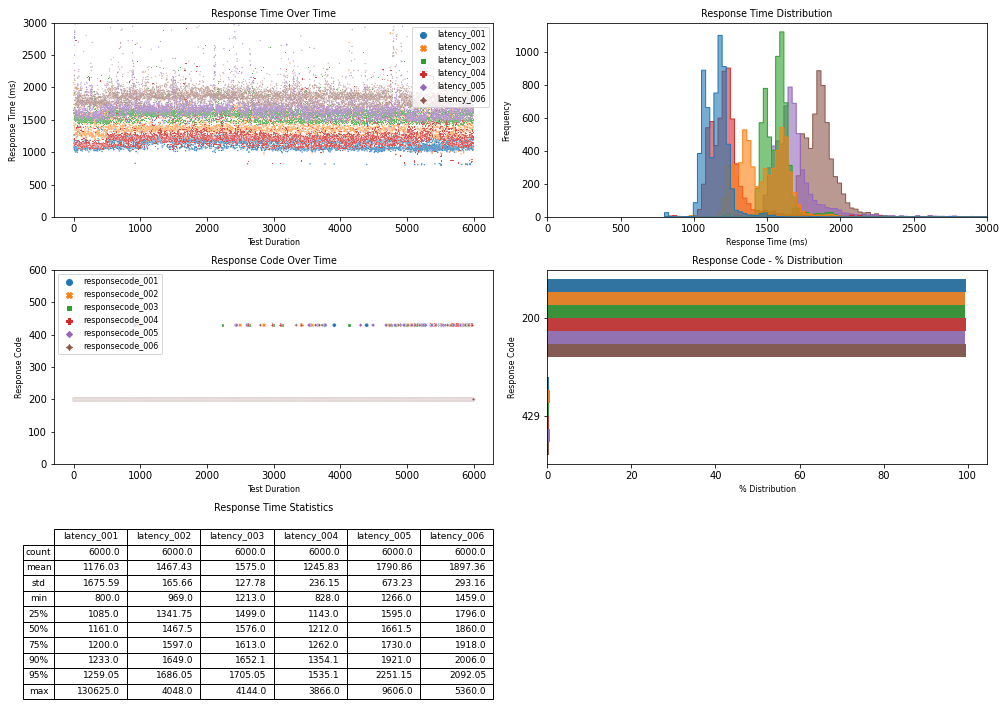
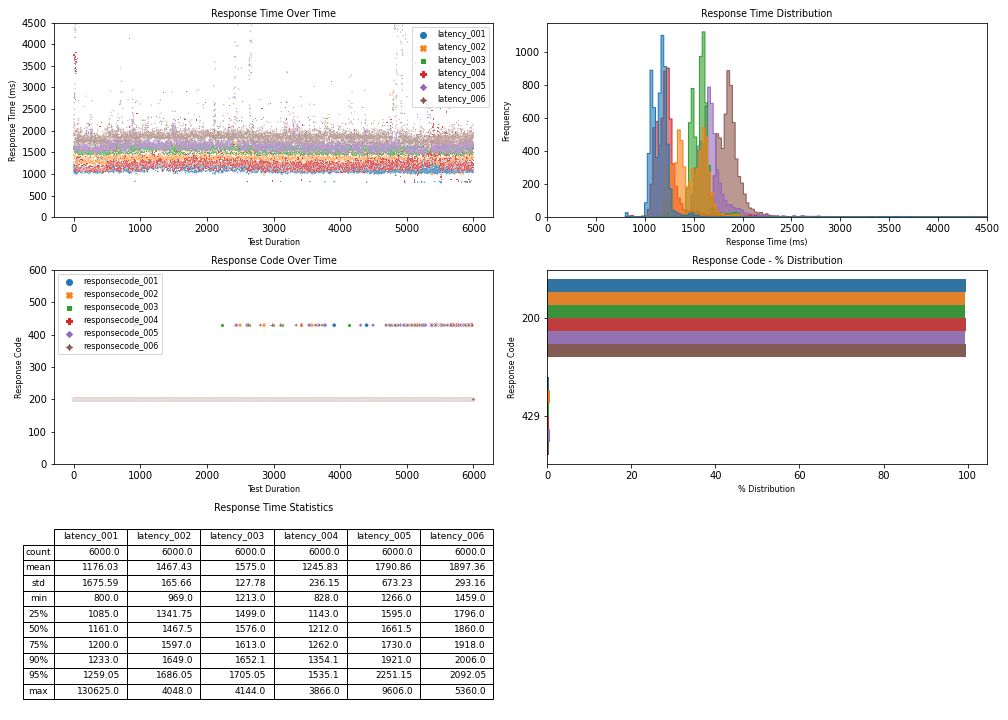
script update

diff --git a/neocortix_jmeter_multi_graphs.py b/neocortix_jmeter_multi_graphs.py
@@ -77,7 +77,7 @@ def generate_graphs():
         #generate scatterplot for elapsed time
         hist_df = df.filter(regex='latency_')
         ax = sns.scatterplot(ax=axes[0, 0], data=hist_df, s=2, legend=True)
-        ax.set(ylim=(0,3000))
+        ax.set(ylim=(0,4500))
         ax.legend(fontsize='medium')
         ax.set_title('Response Time Over Time')
         ax.set_xlabel('Test Duration')
@@ -86,7 +86,7 @@ def generate_graphs():
         #generate response time distribuiton graph
         kwargs = dict(element='step',shrink=.8, alpha=0.6, fill=True, legend=False) 
         ax = sns.histplot(ax=axes[0, 1], data=hist_df,**kwargs)
-        ax.set(xlim=(0,3000))
+        ax.set(xlim=(0,4500))
         ax.set_title('Response Time Distribution')
         ax.set_xlabel('Response Time (ms)')
         ax.set_ylabel('Frequency')
